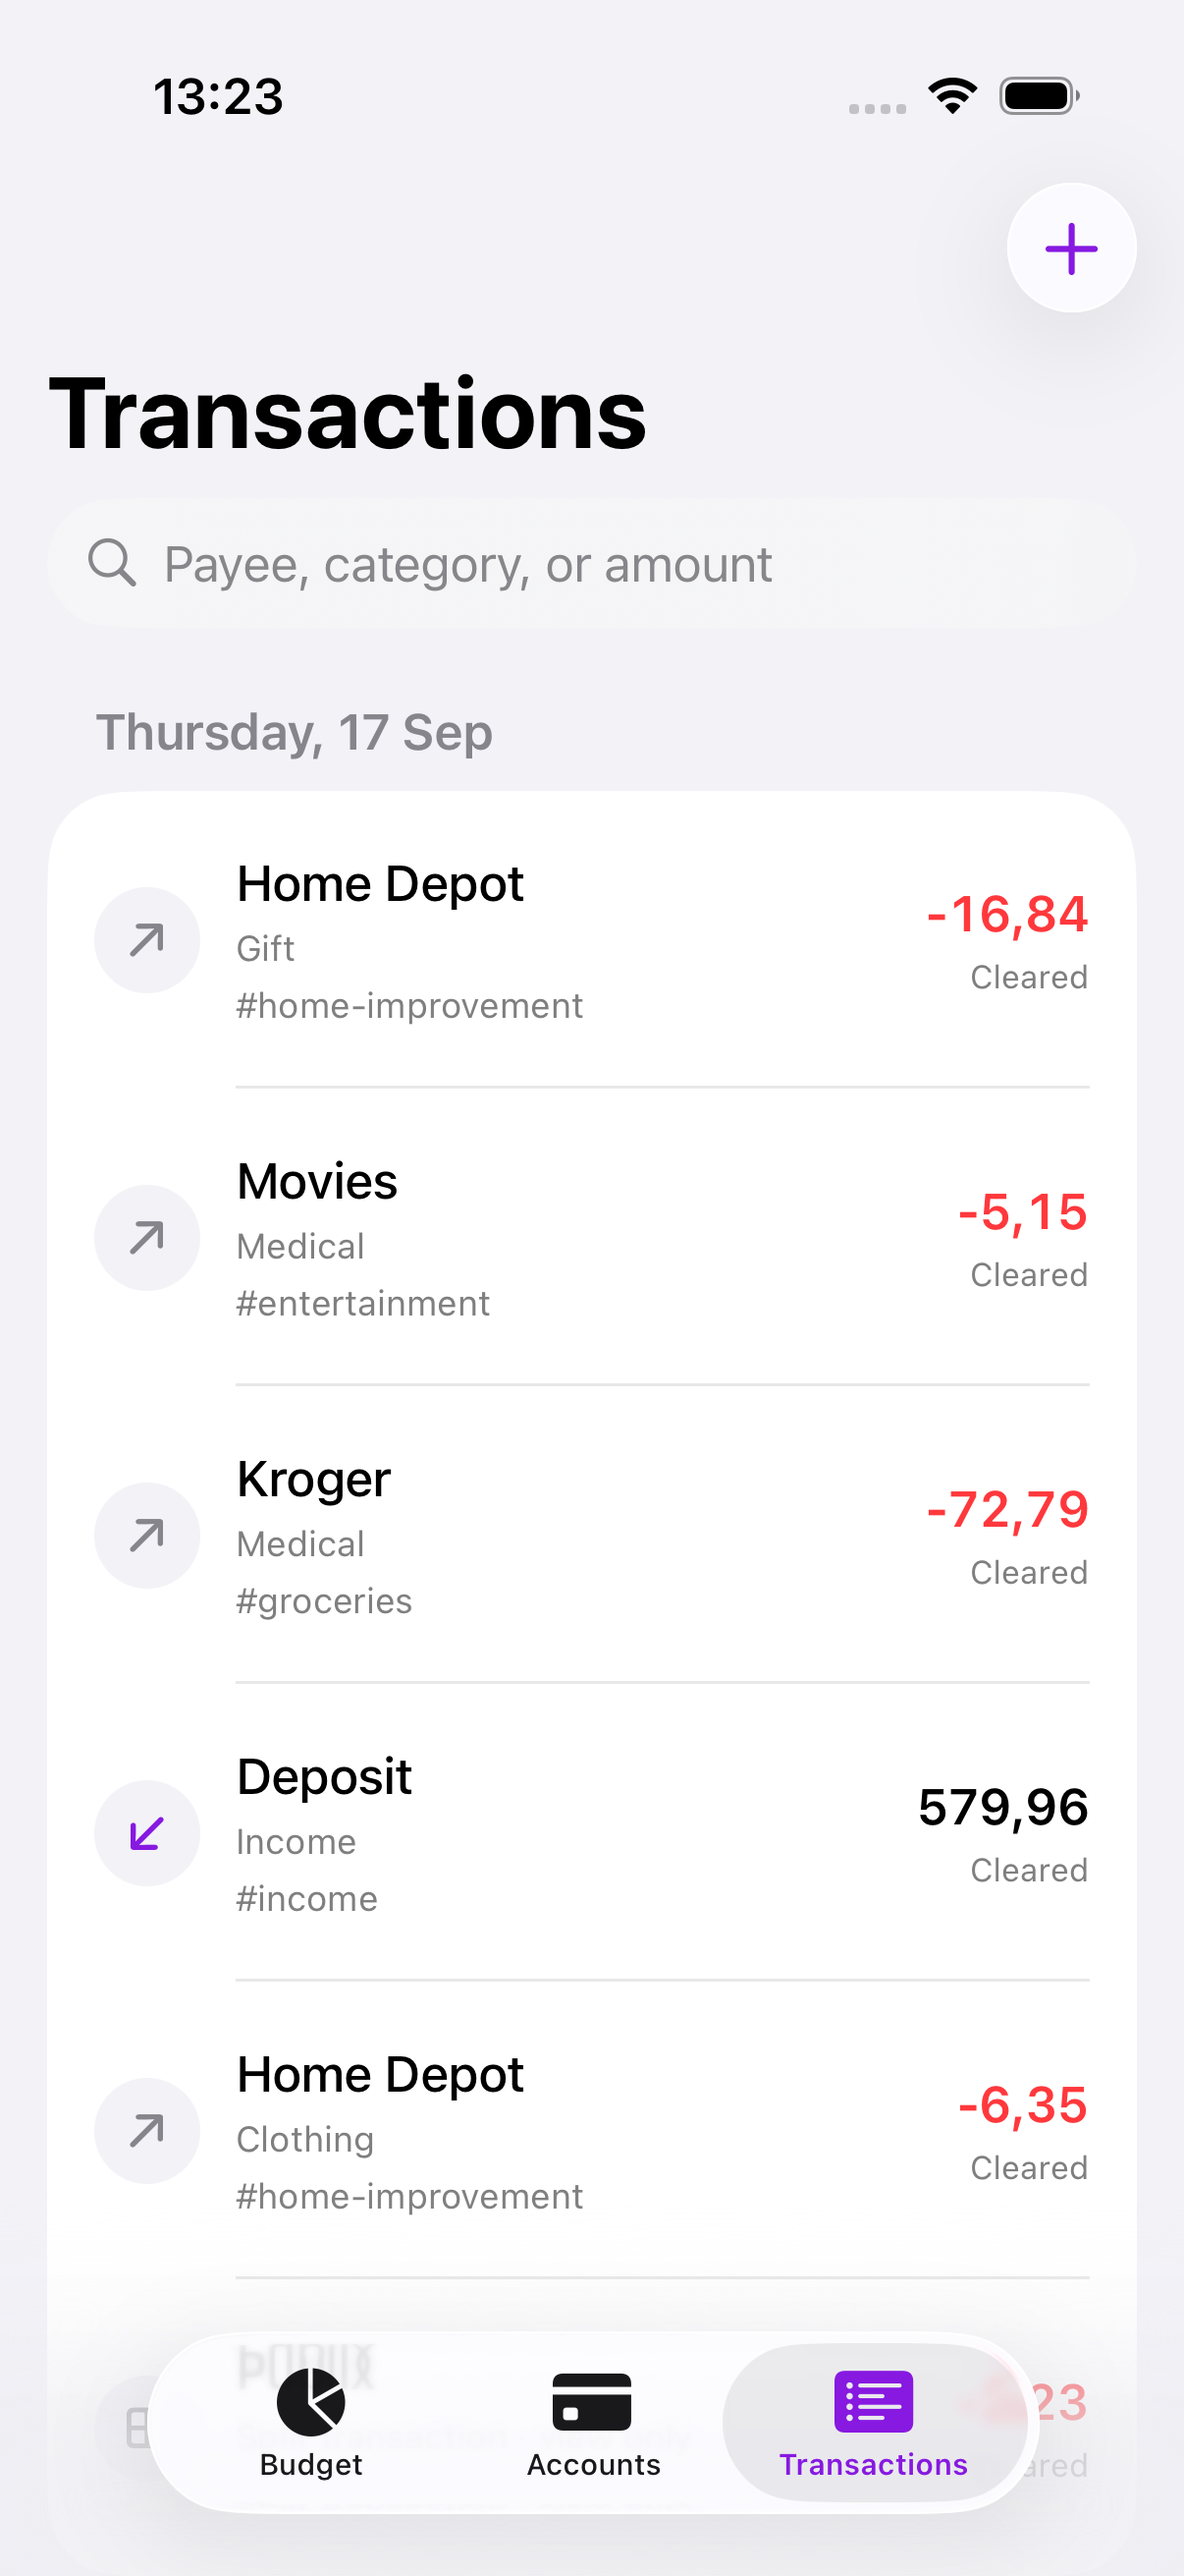
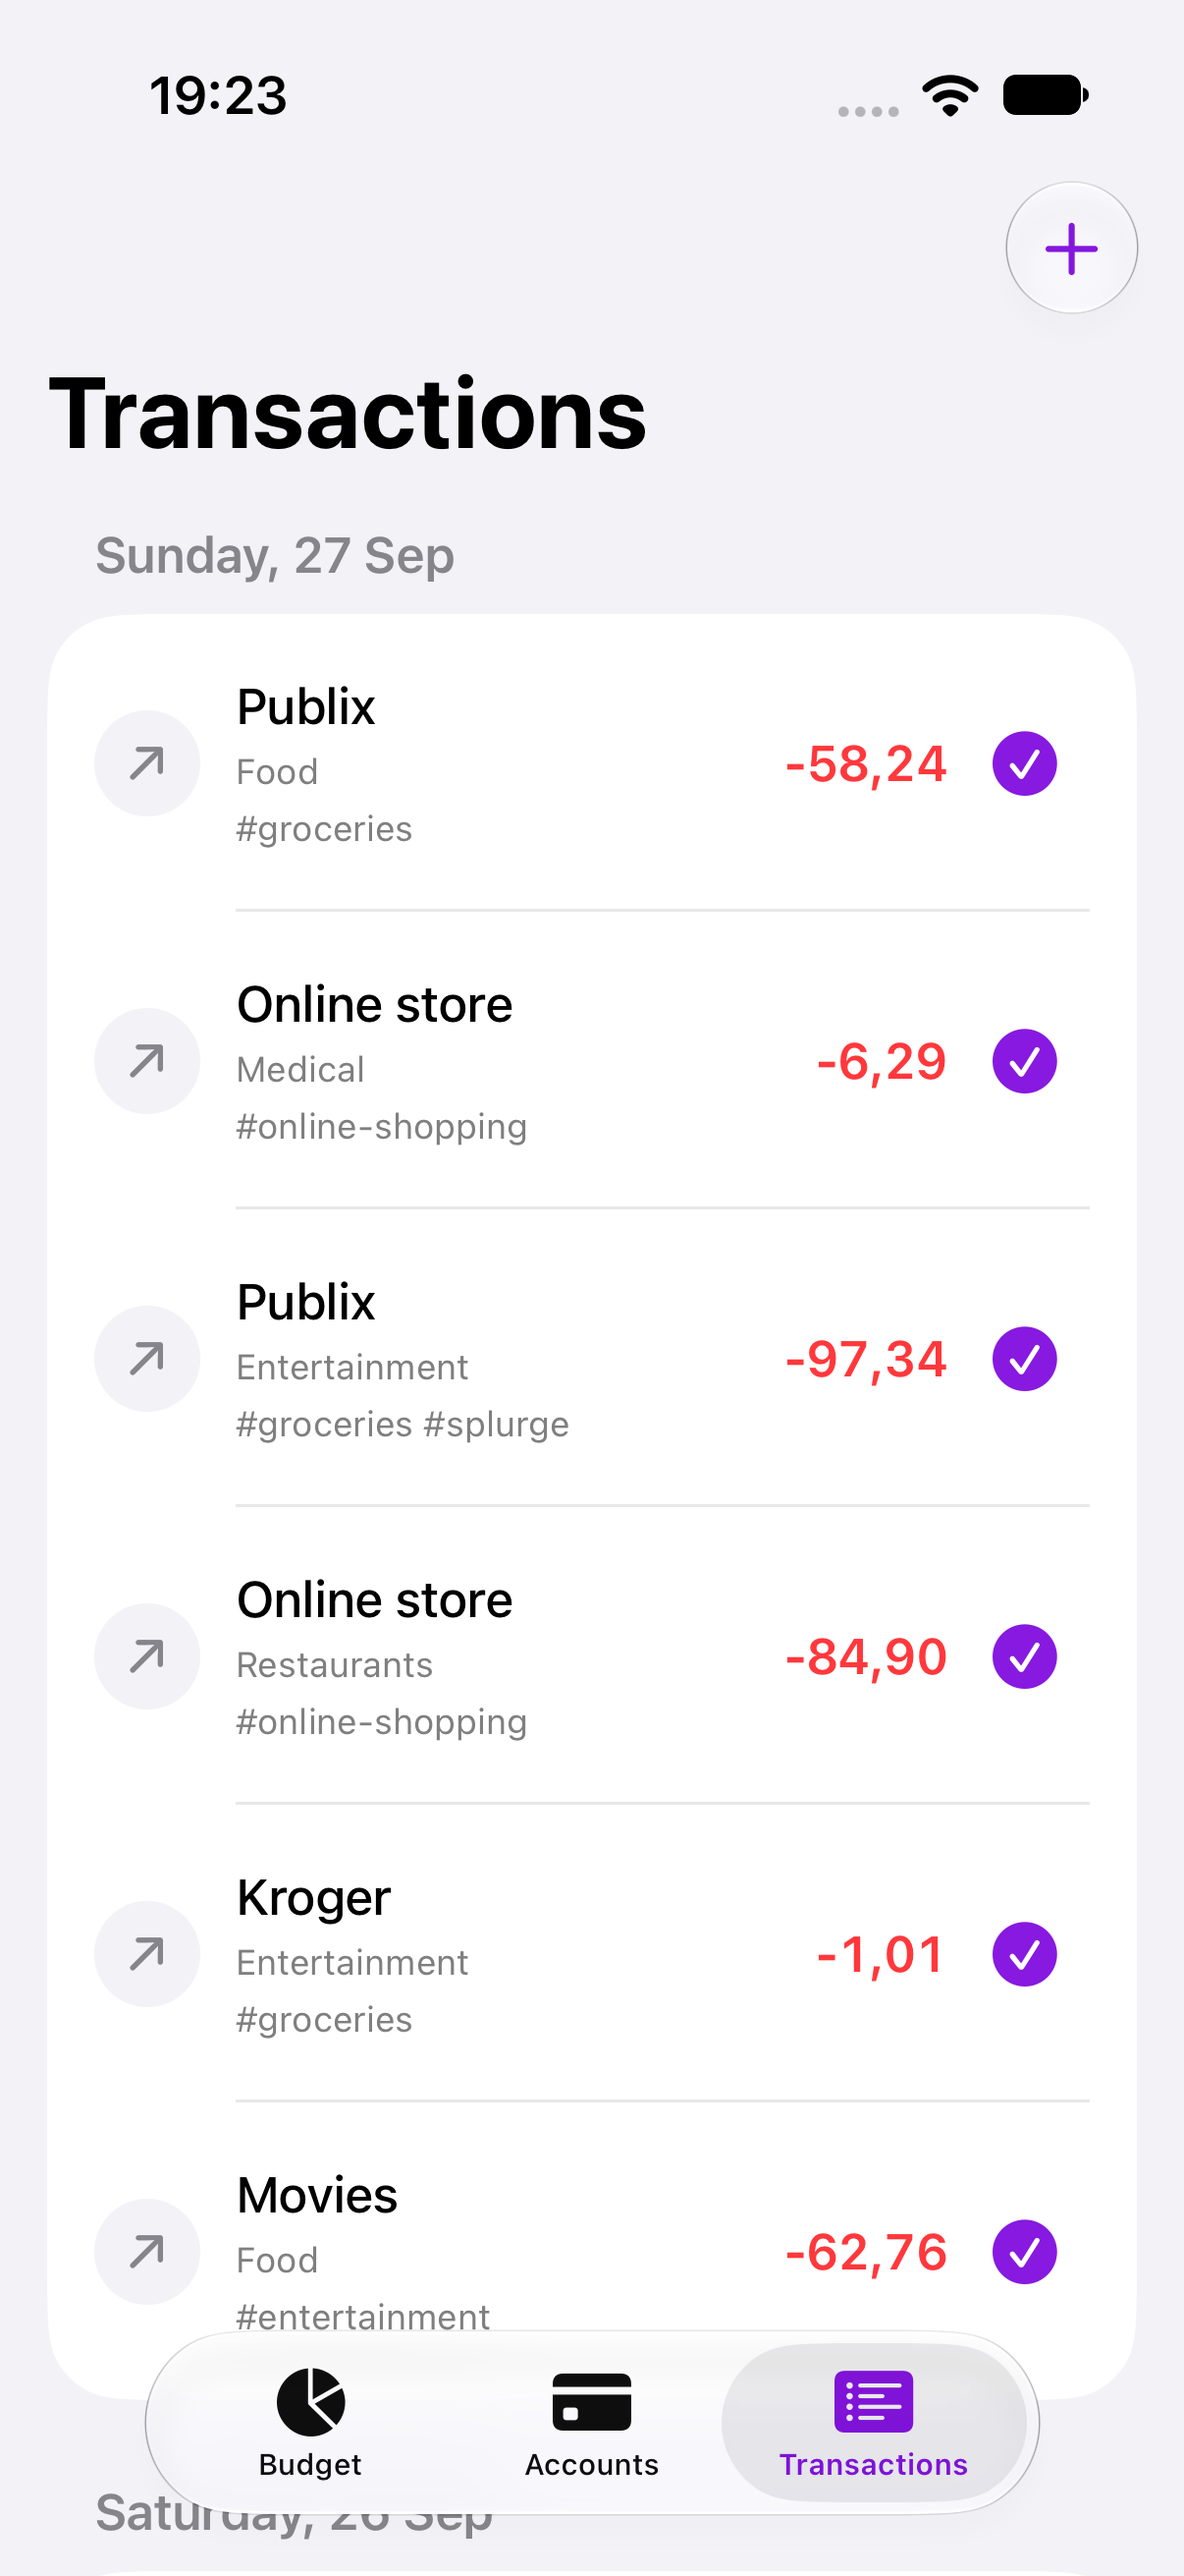
Speed up transaction entry and clear from the list
- Focus the amount when adding a transaction, as Actual's mobile editor does
- Close the date picker's calendar once a date is chosen
- Show income amounts in green in the transaction list and editor
- Clear, unclear, or unlock a transaction from its row's checkmark

Claude-Session: https://claude.ai/code/session_01AvzettNKKo1emLF5si6Ch2

diff --git a/Tests/UITests/ActualNativeUITests.swift b/Tests/UITests/ActualNativeUITests.swift
@@ -203,6 +203,7 @@ final class ActualNativeUITests: XCTestCase {
         addTransaction.tap()
         XCTAssertTrue(app.navigationBars["New transaction"].waitForExistence(timeout: 10))
         XCTAssertTrue(app.textFields["Amount"].exists)
+        XCTAssertTrue(app.buttons["Clear"].waitForExistence(timeout: 5), "A new transaction should open the calculator keypad")
         let payeeRow = app.buttons["payee-row"]
         let categoryRow = app.buttons["category-row"]
         XCTAssertTrue(payeeRow.exists && categoryRow.exists)
@@ -289,7 +290,7 @@ final class ActualNativeUITests: XCTestCase {
         XCTAssertTrue(app.staticTexts["All reconciled!"].exists)
         capture("10-reconciled")
         lock.tap()
-        let locked = app.staticTexts.containing(NSPredicate(format: "label CONTAINS 'Reconciled'")).firstMatch
+        let locked = app.buttons["Unlock reconciled transaction"].firstMatch
         XCTAssertTrue(locked.waitForExistence(timeout: 10), "Cleared transactions should lock")
         XCTAssertFalse(lock.exists)
         capture("11-locked")
@@ -322,12 +323,22 @@ final class ActualNativeUITests: XCTestCase {
         checking.buttons["Add transaction"].tap()
         XCTAssertTrue(app.navigationBars["New transaction"].waitForExistence(timeout: 10))
         let amount = app.textFields["Amount"]
-        amount.tap()
+        XCTAssertTrue(app.buttons["Clear"].waitForExistence(timeout: 5), "The amount should be focused")
         tapKeys(app, "40+3\(decimalSeparator)21")
         XCTAssertEqual(amount.value as? String, "40+3\(decimalSeparator)21")
         capture("transfer-calculator")
         tapKeys(app, "=")
         XCTAssertEqual(amount.value as? String, "43\(decimalSeparator)21", "= shows the calculation's result")
+
+        // Choosing another date closes the calendar.
+        app.datePickers.firstMatch.tap()
+        let nextMonth = app.buttons["DatePicker.NextMonth"]
+        XCTAssertTrue(nextMonth.waitForExistence(timeout: 5), "Tapping the date opens a calendar")
+        // The month's last other day, so the transfer stays near the top of the register.
+        let days = app.datePickers.containing(.button, identifier: "DatePicker.NextMonth").collectionViews.buttons
+            .matching(NSPredicate(format: "isSelected == false"))
+        days.element(boundBy: days.count - 1).tap()
+        XCTAssertTrue(wait(forAbsence: nextMonth), "Choosing a date closes the calendar")
 
         let payeeRow = app.buttons["payee-row"]
         let categoryRow = app.buttons["category-row"]
@@ -351,6 +362,10 @@ final class ActualNativeUITests: XCTestCase {
         let sent = app.staticTexts["Transfer to Ally Savings"]
         XCTAssertTrue(sent.waitForExistence(timeout: 10), "The transfer should appear in the sending account")
         capture("15-transfer-register")
+        // Each row clears from its checkmark.
+        let sentRow = app.cells.containing(.staticText, identifier: "Transfer to Ally Savings").firstMatch
+        sentRow.buttons["Mark cleared"].tap()
+        XCTAssertTrue(sentRow.buttons["Mark uncleared"].waitForExistence(timeout: 10), "Tapping the checkmark clears the transaction")
         app.navigationBars.buttons["Accounts"].tap()
         app.staticTexts["Ally Savings"].tap()
         XCTAssertTrue(app.navigationBars["Ally Savings"].waitForExistence(timeout: 10))

diff --git a/Native/Views/TransactionsView.swift b/Native/Views/TransactionsView.swift
@@ -35,10 +35,9 @@ struct TransactionsView: View {
                     ForEach(section.transactions) { transaction in
                         HStack(spacing: 4) {
                             Button { selectedTransaction = transaction } label: {
-                                TransactionRow(transaction: transaction, currency: model.currency,
-                                               showsStatus: reconciliation == nil)
+                                TransactionRow(transaction: transaction, currency: model.currency)
                             }.buttonStyle(.plain)
-                            if reconciliation != nil { ClearedToggle(transaction: transaction) }
+                            ClearedToggle(transaction: transaction)
                         }
                     }
                 } header: {
@@ -75,8 +74,6 @@ struct TransactionsView: View {
 struct TransactionRow: View {
     let transaction: Transaction
     let currency: String
-    /// While reconciling, a separate toggle shows the cleared state.
-    var showsStatus = true
     var body: some View {
         HStack(alignment: .center, spacing: 12) {
             Image(systemName: transaction.isTransfer ? "arrow.left.arrow.right" : transaction.isParent ? "square.split.2x2" : transaction.amount < 0 ? "arrow.up.right" : "arrow.down.left")
@@ -92,15 +89,7 @@ struct TransactionRow: View {
                 if let notes = transaction.notes, !notes.isEmpty { Text(notes).font(.caption).foregroundStyle(.secondary).lineLimit(1) }
             }
             Spacer(minLength: 8)
-            VStack(alignment: .trailing, spacing: 5) {
-                MoneyText(value: transaction.amount, currency: currency).font(.body.weight(.semibold))
-                if showsStatus {
-                    Group {
-                        if transaction.isReconciled { Text("\(Image(systemName: "lock.fill")) Reconciled") }
-                        else { Text(transaction.cleared ? "Cleared" : "Uncleared") }
-                    }.font(.caption2).foregroundStyle(.secondary)
-                }
-            }
+            MoneyText(value: transaction.amount, currency: currency, positiveColor: .green).font(.body.weight(.semibold))
         }.padding(.vertical, 6).contentShape(Rectangle())
             .accessibilityElement(children: .combine)
     }

diff --git a/Native/Views/AmountField.swift b/Native/Views/AmountField.swift
@@ -9,10 +9,12 @@ struct AmountField: View {
     var placeholder = Money.editable(0)
     var large = false
     var focusesOnAppear = false
+    var textColor = UIColor.label
 
     var body: some View {
         let descender = AmountTextField.font(large: large).descender
-        Representable(label: label, text: $text, placeholder: placeholder, large: large, focusesOnAppear: focusesOnAppear)
+        Representable(label: label, text: $text, placeholder: placeholder, large: large,
+                      focusesOnAppear: focusesOnAppear, textColor: textColor)
             // Align with neighboring text by the field's baseline rather than its bottom.
             .alignmentGuide(.firstTextBaseline) { $0[.bottom] + descender }
     }
@@ -23,6 +25,7 @@ struct AmountField: View {
         let placeholder: String
         let large: Bool
         let focusesOnAppear: Bool
+        let textColor: UIColor
 
         func makeUIView(context: Context) -> AmountTextField {
             let field = AmountTextField(focusesOnAppear: focusesOnAppear)
@@ -40,7 +43,7 @@ struct AmountField: View {
             context.coordinator.text = $text
             if field.text != text { field.text = text }
             field.isEnabled = context.environment.isEnabled
-            field.textColor = field.isEnabled ? .label : .secondaryLabel
+            field.textColor = field.isEnabled ? textColor : .secondaryLabel
         }
 
         func sizeThatFits(_ proposal: ProposedViewSize, uiView field: AmountTextField, context: Context) -> CGSize? {

diff --git a/Native/Views/TransactionEditor.swift b/Native/Views/TransactionEditor.swift
@@ -80,7 +80,9 @@ struct TransactionEditor: View {
                     }.pickerStyle(.segmented)
                     HStack(alignment: .firstTextBaseline) {
                         Text(isOutflow ? "−" : "+").foregroundStyle(.secondary)
-                        AmountField(label: "Amount", text: $amount, large: true)
+                        // A new transaction starts with its amount, as in Actual.
+                        AmountField(label: "Amount", text: $amount, large: true, focusesOnAppear: transaction == nil,
+                                    textColor: isOutflow ? .label : .systemGreen)
                         if !model.currency.isEmpty { Text(model.currency).font(.caption).foregroundStyle(.secondary) }
                     }.padding(.vertical, 8)
                 }.disabled(!editable || model.isBusy)
@@ -92,6 +94,8 @@ struct TransactionEditor: View {
                         }
                     }
                     DatePicker("Date", selection: $date, displayedComponents: .date)
+                        // Rebuilding the picker closes its calendar once a date is chosen.
+                        .id(date)
                     NavigationLink {
                         PayeePicker(selection: $payee, transferAccount: $transferAccount,
                                     payees: model.overview?.payees ?? [], accounts: transferAccounts)

diff --git a/Native/Theme.swift b/Native/Theme.swift
@@ -10,10 +10,12 @@ enum ActualTheme {
 struct MoneyText: View {
     let value: Int
     var currency = ""
+    /// Transaction amounts show income in green.
+    var positiveColor = Color.primary
     var body: some View {
         Text(Money.formatted(value, currency: currency))
             .monospacedDigit()
-            .foregroundStyle(value < 0 ? Color.red : Color.primary)
+            .foregroundStyle(value < 0 ? Color.red : value > 0 ? positiveColor : Color.primary)
     }
 }
 

diff --git a/Native/Views/ReconcileView.swift b/Native/Views/ReconcileView.swift
@@ -92,7 +92,7 @@ struct ReconcilingBanner: View {
     private func money(_ value: Int) -> String { Money.formatted(value, currency: model.currency) }
 }
 
-/// Clears a transaction while reconciling. Reconciled transactions unlock after a warning.
+/// Clears or unclears a transaction from its row. Reconciled transactions unlock after a warning.
 struct ClearedToggle: View {
     let transaction: Transaction
     @Environment(AppModel.self) private var model

diff --git a/README.md b/README.md
@@ -10,7 +10,7 @@ This is a development build, with no App Store submission or distribution signin
 - Delete a budget from this device: touch and hold it in the budget list. As with Actual's **Delete file locally**, a server budget stays on your server and can be downloaded again, but changes not yet synced are lost. A budget that is not on a server is deleted permanently. Deleting a budget from the server remains in Actual web/desktop.
 - Browse monthly envelope or tracking budgets, adjust category allocations, and see account balances, including future-dated transactions as in Actual. Tracking budgets show saved or projected savings instead of an amount to budget.
 - Pull to refresh Accounts to fetch bank transactions for all linked, open accounts, or refresh one account from its transaction register. Shows bank refresh status and account-specific errors; existing rules and import preferences apply.
-- Search transactions; add, edit, categorize, clear, and delete ordinary transactions. Payees and categories are chosen from searchable lists, and typing a new name adds a payee. As in Actual's mobile app, rules fill in empty fields of new transactions and may set the payee or extend notes, but never replace a category or other value you entered. A typed payee name reuses an existing payee regardless of capitalization.
+- Search transactions; add, edit, categorize, clear, and delete ordinary transactions. Tap a transaction's checkmark to clear or unclear it; income amounts are green. A new transaction opens with its amount ready for entry, and choosing a date closes the calendar. Payees and categories are chosen from searchable lists, and typing a new name adds a payee. As in Actual's mobile app, rules fill in empty fields of new transactions and may set the payee or extend notes, but never replace a category or other value you entered. A typed payee name reuses an existing payee regardless of capitalization.
 - Transfer money between accounts, as in Actual: choose the other account under **Transfer to/from** in the payee list. Actual adds the linked transaction in that account. Editing either side updates the other's amount, notes, and account; each side keeps its own date and cleared state. Choosing an ordinary payee, or deleting either side, removes the linked transaction. Transfers between two on-budget accounts have no category. Editing or deleting a transfer whose linked transaction is reconciled asks for confirmation first.
 - Reconcile an account against your bank's balance, as in Actual's mobile app. Enter the balance, or use the last balance a linked bank reported. Then clear transactions, add an adjustment for any difference, and lock cleared transactions once the balances match. Reconciled transactions show a lock; editing, deleting, or unlocking one asks for confirmation first.
 - Sync a server-backed budget before opening it on launch or returning from the background. Returning within five minutes of a successful sync skips it. **Continue offline** shows the saved budget right away while the sync finishes in the background. If sync fails, open the saved budget with a retry message.
